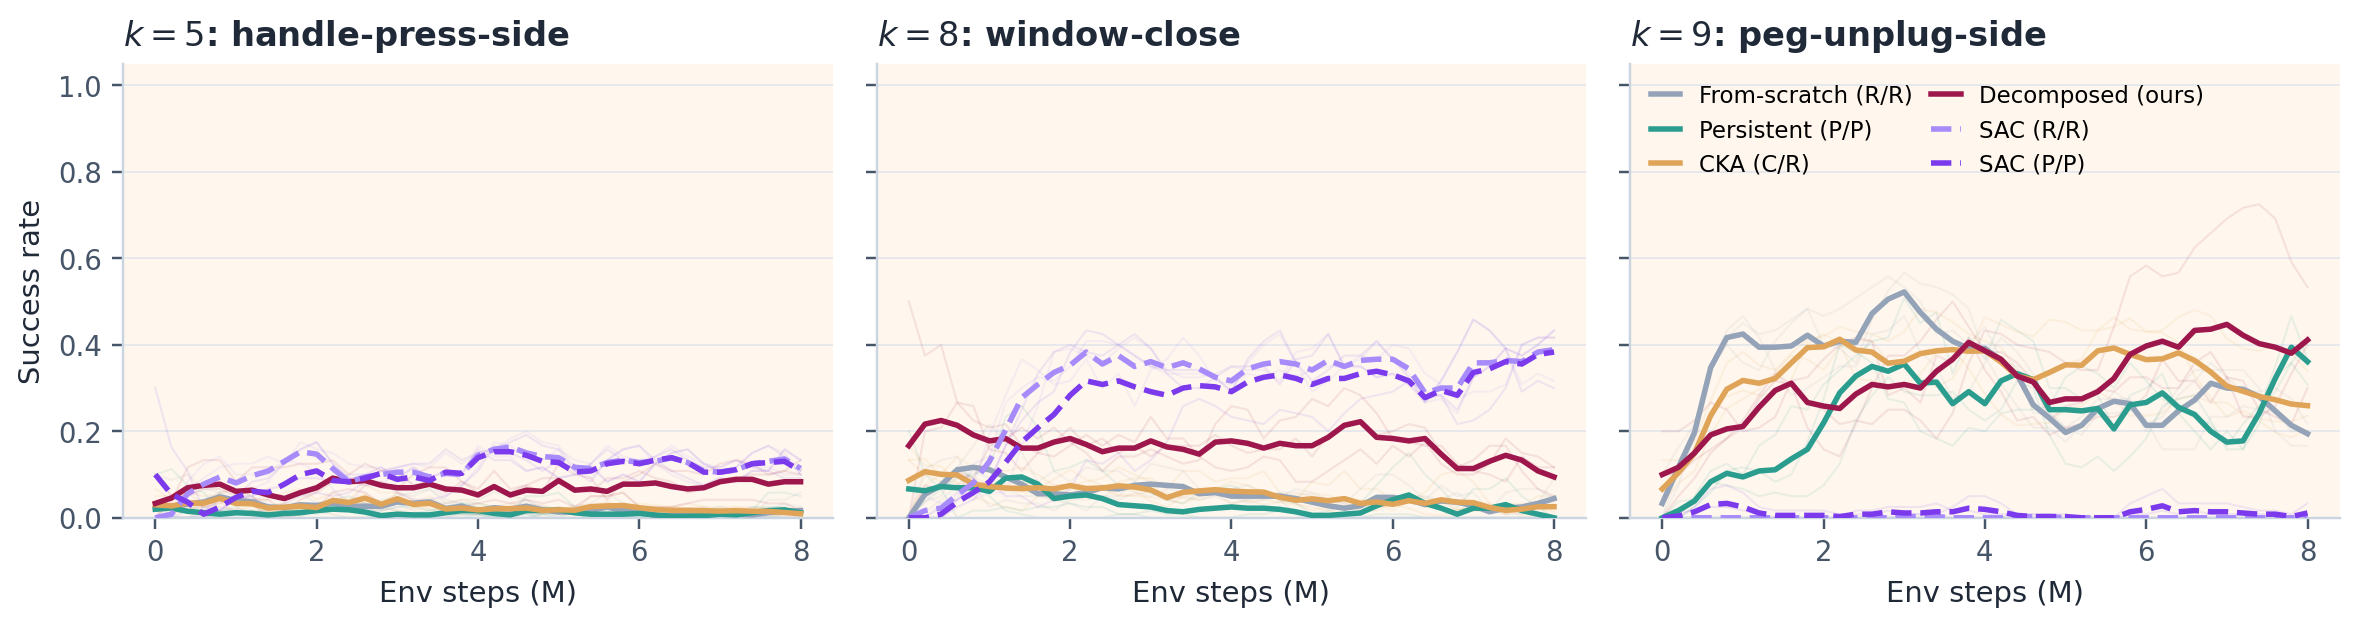
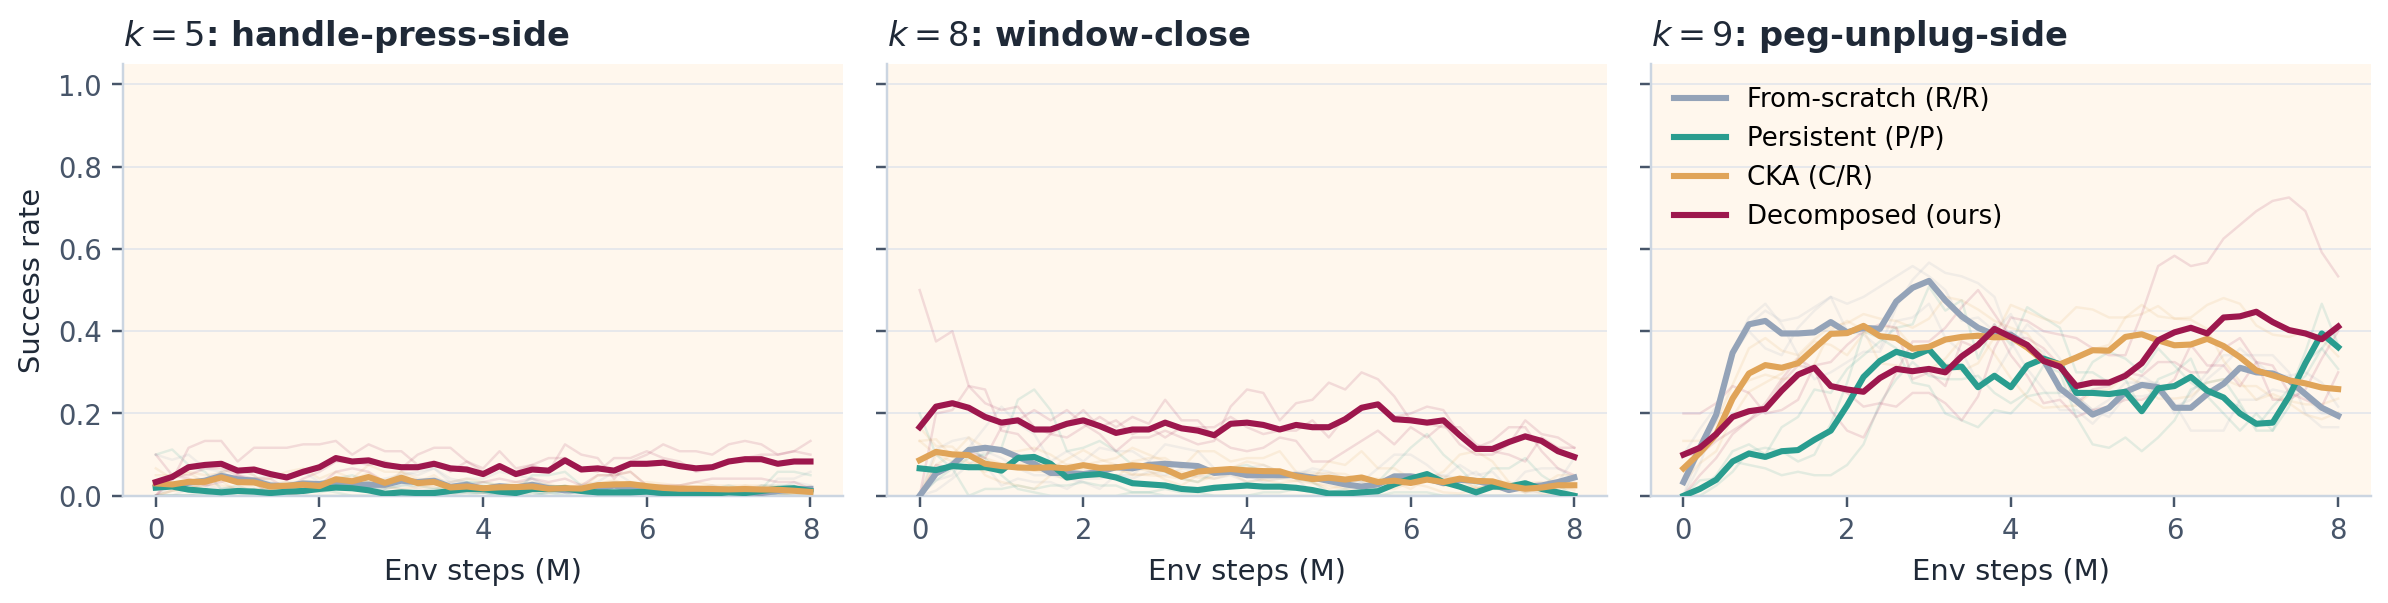
figs: paper Fig 3 (Right) -> actor weight norm; clean NRC y-labels
render_paper_figs_v2.fig3_representation: swap dormant_ratio metric for weight_norm in the right panel.
render_appendix_figs.fig_nrc_panel: drop '(within-class)' / '(between-class)' from y-labels since NRC differs from the classification-setting NC of Papyan et al. 2020.

diff --git a/results/scripts/render_appendix_figs.py b/results/scripts/render_appendix_figs.py
@@ -215,8 +215,8 @@ def fig_nrc_panel(save_to):
 
     fig, axes = plt.subplots(1, 2, figsize=(11.5, 4.2))
     metrics = [
-        ("rl_metrics/critic_sa/nrc1", "NRC1 (within-class)\nlower = more collapsed"),
-        ("rl_metrics/critic_sa/nrc2", "NRC2 (between-class)\nhigher = more separated"),
+        ("rl_metrics/critic_sa/nrc1", "NRC1\nlower = more collapsed"),
+        ("rl_metrics/critic_sa/nrc2", "NRC2\nhigher = more separated"),
     ]
     cells = list(CELLS_FULL.keys())
     n_cells = len(cells)

diff --git a/results/scripts/render_paper_figs_v2.py b/results/scripts/render_paper_figs_v2.py
@@ -247,7 +247,7 @@ def fig3_representation():
 
     metrics = [
         ("rl_metrics/actor/feature_rank", "Effective rank (actor)"),
-        ("rl_metrics/actor/dormant_ratio", "Dormant-neuron ratio (actor)"),
+        ("rl_metrics/actor/weight_norm", "Weight norm (actor)"),
     ]
     n = len(cells)
     dx = 0.08
